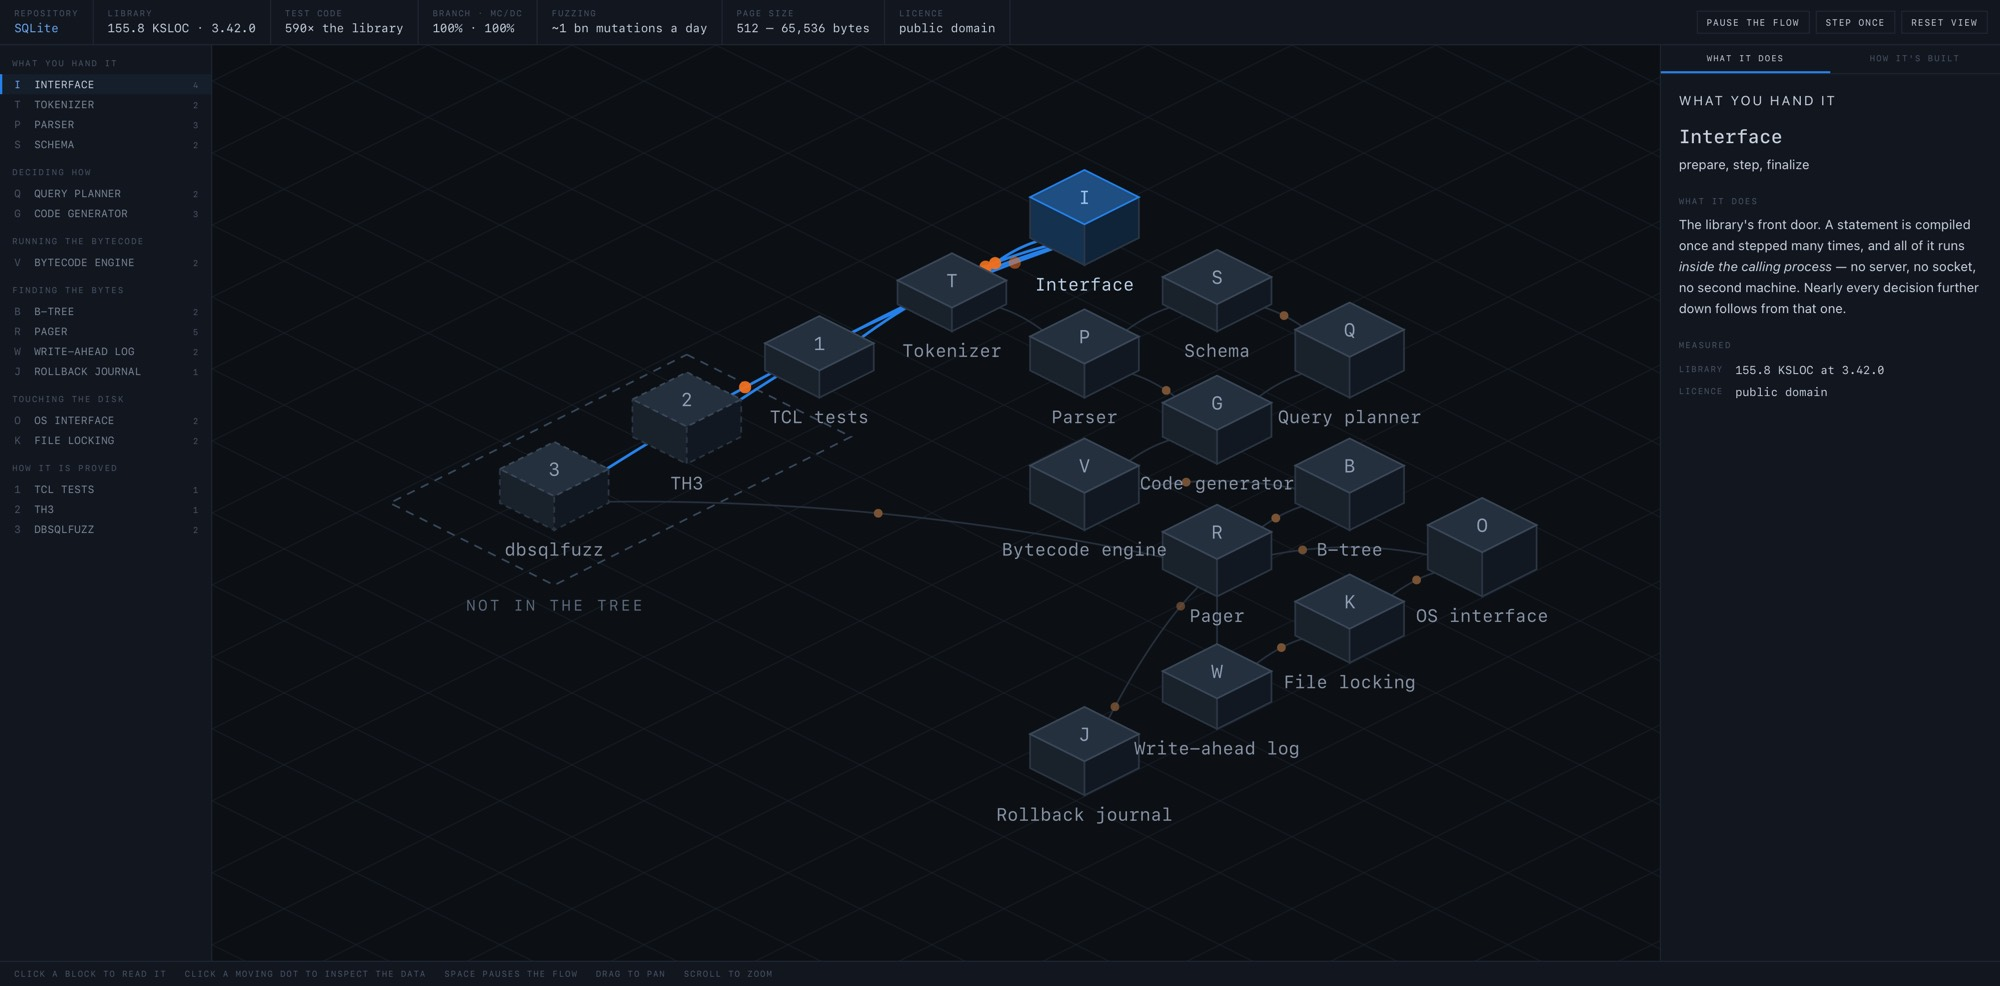
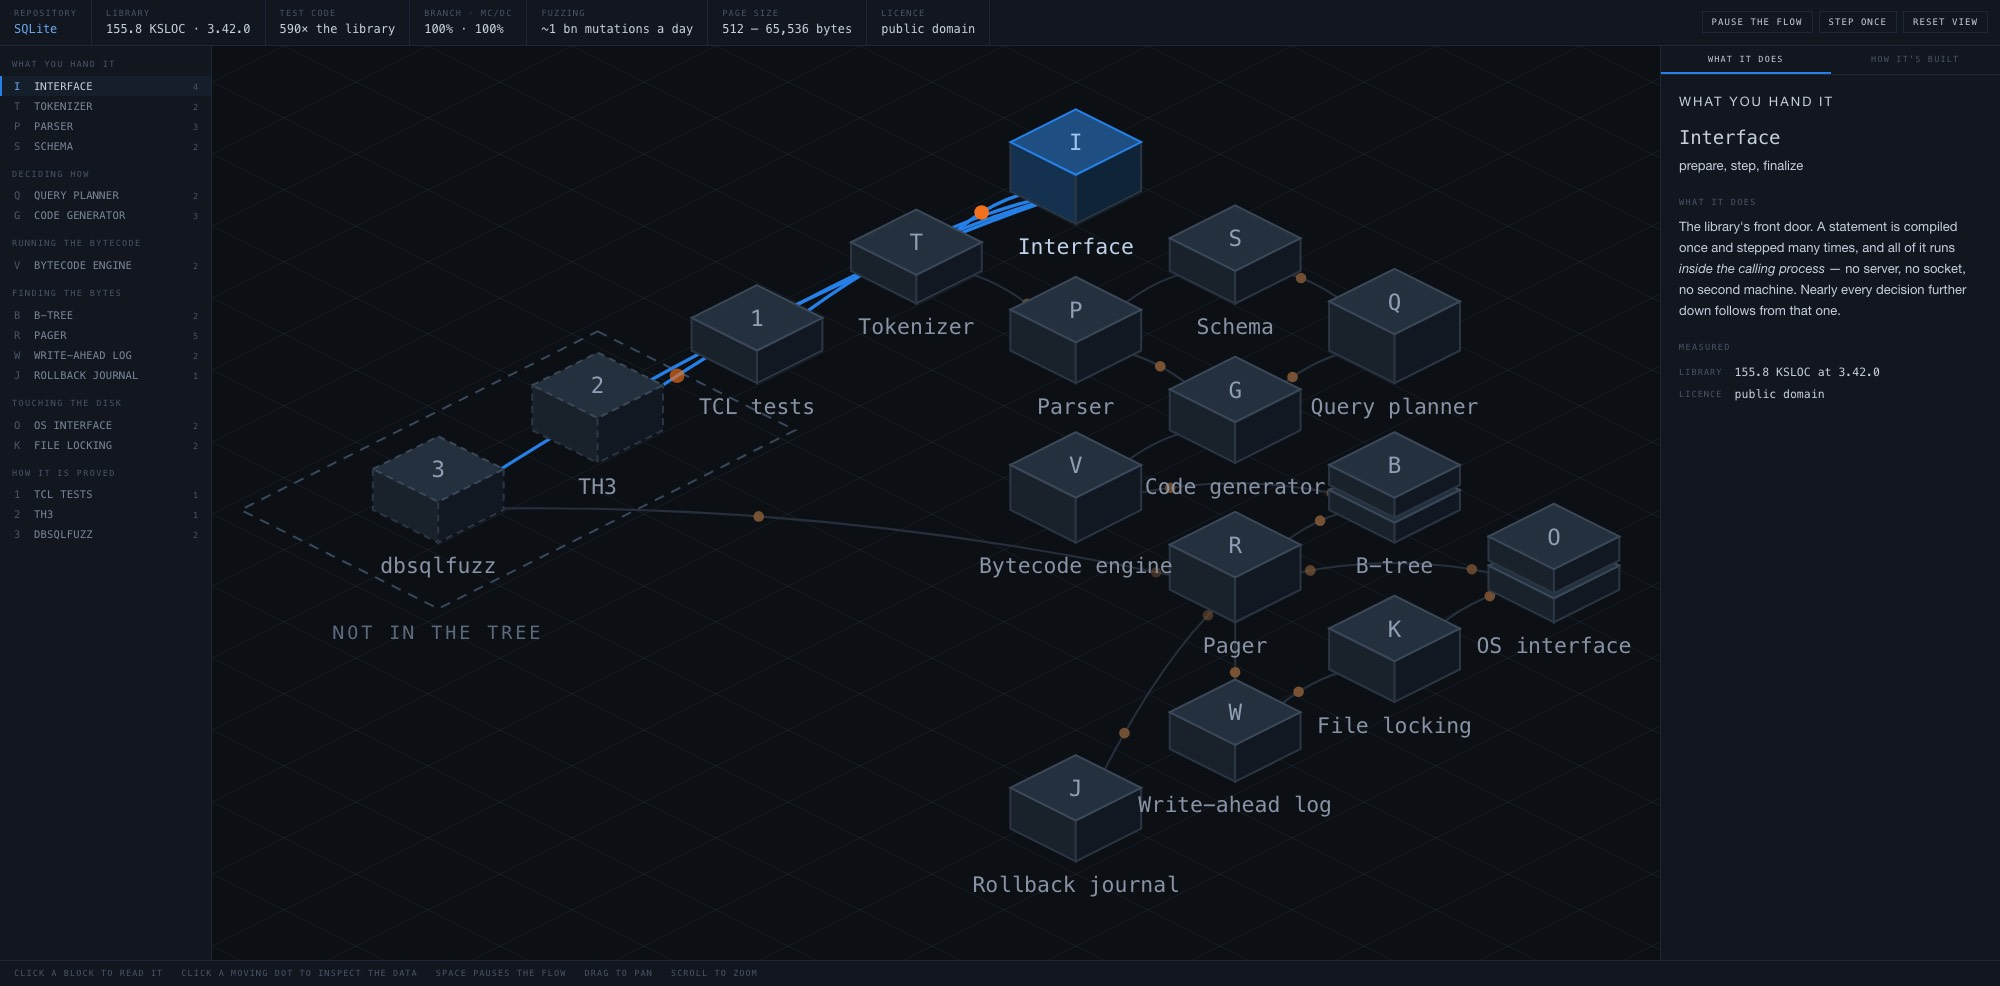
Fit to the labels that are there, not to a guessed margin
The default view was leaving about a tenth of its available scale unused, and
the cause was two constants standing in for a measurement. fit() reserved a
flat 140 across and 120 down for label overhang - numbers tuned by hand against
an earlier example, where labels ran roughly 60 past a block on each side - and
then capped the scale at 1.7. This example wanted 1.85 before its width bound
it, so it opened smaller than the space it had, exactly the fault the 1.15 cap
had caused before.

Both are gone. The bounds now include each label's real getBBox extent and the
top of each block, which stands h+H above its anchor and was never counted, so
what is left over is a genuine margin rather than a fudge factor. Padding drops
to 28 and the cap to a ceiling that only a very small graph will reach.

Two ways this can go wrong, both handled. Where layout has not happened
getBBox throws, and where an engine returns a zero-size box instead, taking it
at face value would drag every bound toward the origin and quietly zoom a map
out - a graph that does not contain the origin would be worst hit. Either case
falls back to the old constants, which were at least safe.

Also names what the stacked blocks are doubling, prompted by the obvious
question on seeing them: two of what? The two cases turned out to mean
different things. os_unix.c and os_win.c are two ports of one interface - and
notably not two VFS objects, since the unix file alone registers up to twelve
[…]

diff --git a/assets/template.html b/assets/template.html
@@ -269,8 +269,8 @@ const NODES = [
   {c:"B", id:"btree", name:"B-tree", grp:"Finding the bytes", gx:3, gy:1, h:22, stack:2,
    sub:"Tables and indexes, both",
    does:"Turns a table into pages. Tables and indexes are the same structure here — the first byte of a page header says which, and whether the page is interior or leaf. Four values cover the whole file.",
-   built:"<code>btree.c</code>, the largest single source file in the library at about 407 KB. Page type flags are 0x02 interior index, 0x05 interior table, 0x0a leaf index, 0x0d leaf table.",
-   facts:[["Page types","0x02 · 0x05 · 0x0a · 0x0d"],["Source","~407 KB, the biggest"]]},
+   built:"<code>btree.c</code>, the largest single source file in the library at about 407 KB — <em>one</em> implementation serving both forms, not two. Page type flags are 0x02 interior index, 0x05 interior table, 0x0a leaf index, 0x0d leaf table.",
+   facts:[["The two plates","table b-tree · index b-tree"],["Page types","0x02 · 0x05 · 0x0a · 0x0d"],["Source","~407 KB, the biggest"]]},
 
   {c:"R", id:"pager", name:"Pager", grp:"Finding the bytes", gx:3, gy:2, h:22,
    sub:"Where writes become atomic",
@@ -294,8 +294,8 @@ const NODES = [
   {c:"O", id:"vfs",   name:"OS interface", grp:"Touching the disk", gx:4, gy:1, h:26, stack:2,
    sub:"One interface, two builds",
    does:"All file access goes through a single struct of function pointers. That is why SQLite ports to anything with a filesystem, and why you can hand it storage of your own at runtime without touching the library.",
-   built:"<code>os_unix.c</code> and <code>os_win.c</code>. The unix one runs to about 8,600 lines, the great majority of it concerned with locking rather than with reading and writing.",
-   facts:[["Swappable","yes — sqlite3_vfs_register"],["os_unix.c","~8,600 lines"]]},
+   built:"<code>os_unix.c</code> and <code>os_win.c</code> — two ports, not two VFS objects. The unix file alone registers <mark>a dozen of those</mark>: <code>unix</code>, <code>unix-excl</code>, <code>unix-dotfile</code>, <code>unix-nfs</code>, <code>unix-proxy</code> and more, which are locking strategies rather than platforms. It runs to about 8,600 lines, the great majority of it about locking rather than reading and writing.",
+   facts:[["The two plates","os_unix.c · os_win.c"],["VFSes in the unix one","up to 12"],["Swappable","yes — sqlite3_vfs_register"]]},
 
   {c:"K", id:"lock",  name:"File locking", grp:"Touching the disk", gx:4, gy:2, h:20,
    sub:"Five states, one of them odd",
@@ -552,21 +552,48 @@ function fit() {
   // go in here too — otherwise a region on the edge of the graph is cut off by
   // the panel and looks like a line that stops for no reason.
   const pts = NODES.map(at).concat(regionPts);
+
+  // Blocks stand up out of their anchor, so the top of the tallest one is the
+  // real upper edge of the drawing, not the anchor row.
+  for (const n of NODES) {
+    const p = at(n);
+    pts.push({ x:p.x, y:p.y - n.h - H });
+  }
+
+  // Measure the labels rather than reserving a guessed margin for them. This
+  // used to be a flat 140 across and 120 down, tuned by hand against one
+  // example: labels overhang a block by roughly 60 a side, so 140 cleared the
+  // worst of them. But it is wrong in both directions — too tight for a map
+  // with long names, and on this one it wasted about a tenth of the available
+  // scale on space nothing occupied. getBBox gives the true extent, so the
+  // margin left over is a real margin instead of a fudge factor.
+  let measured = true;
+  try {
+    const texts = [...Object.values(nodeEls).map(e => e.label),
+                   ...regionEls.map(e => e.label)];
+    for (const t of texts) {
+      const b = t.getBBox();
+      // A zero-width box means the text has not been laid out. Some engines
+      // return that instead of throwing, and taking it at face value drags
+      // every bound toward the origin — which on a graph that does not
+      // contain the origin silently zooms the whole map out.
+      if (!b.width) { measured = false; break; }
+      pts.push({ x:b.x, y:b.y }, { x:b.x + b.width, y:b.y + b.height });
+    }
+  } catch (_) {
+    measured = false;   // no layout yet — fall back to the old constants
+  }
+
   const xs = pts.map(p => p.x), ys = pts.map(p => p.y);
-  // Padding enough to clear the labels, and a cap that lets a small graph
-  // fill the space it has. At 1.15 the default view sat marooned in the middle
-  // of a wide window with the type too small to read without scrolling in.
-  // Padding is asymmetric on purpose. The graph is about 2:1 — five stages
-  // across, five rows deep, projected — while a stage with an index and a
-  // panel either side is nearer 1.3:1. Width therefore binds, and generous
-  // horizontal padding scaled the whole thing down to 0.87 while leaving a
-  // third of the height empty. 90 clears the labels, which overhang a block by
-  // about 60 on each side, and the rest goes into zoom. Tighter than 140 and
-  // the outermost label is clipped by the panel — found in a render, since the
-  // stage hides its overflow and a cut label just looks like a short name.
-  const w = Math.max(...xs) - Math.min(...xs) + 140;
-  const h = Math.max(...ys) - Math.min(...ys) + 120;
-  view.k = Math.min(r.width / w, r.height / h, 1.7);
+  const pad = measured ? 28 : 140;
+  const w = Math.max(...xs) - Math.min(...xs) + pad;
+  const h = Math.max(...ys) - Math.min(...ys) + (measured ? 28 : 120);
+  // The cap stops a three-node graph filling the screen with enormous blocks.
+  // It was 1.15, which left the default view marooned in the middle of a wide
+  // window, then 1.7, which this 16-node example ran straight into — it could
+  // take 1.85 before the width bound it. 2.2 leaves the binding edge to the
+  // geometry in every case seen so far.
+  view.k = Math.min(r.width / w, r.height / h, 2.2);
   view.x = r.width / 2 - ((Math.min(...xs) + Math.max(...xs)) / 2) * view.k;
   view.y = r.height / 2 - ((Math.min(...ys) + Math.max(...ys)) / 2) * view.k;
   home = { ...view };

diff --git a/SKILL.md b/SKILL.md
@@ -110,6 +110,14 @@ kind, don't draw five plates and hope nobody counts — stack at the number of
 genuine variants, or leave it solid and put the figure in `facts`. The plate
 count is a claim like every other number in the diagram.
 
+**Name the variants in the panel, always.** A stack makes a reader ask "two
+of what?" and the canvas cannot answer — the block only carries its name. If
+the panel does not say, the plates are decoration that provokes a question and
+withholds the answer. Put the variants in `facts` as a pair, and be exact about
+what is doubled: two *implementations* of one interface is a different claim
+from one implementation serving two *forms*, and a reader who knows the codebase
+will notice which you meant.
+
 Stacking is also a reason to **merge nodes**. If you find yourself drawing three
 near-identical blocks side by side, they are usually one stacked block with the
 differences described in the panel — and merging buys back a node to spend on

diff --git a/README.md b/README.md
@@ -16,7 +16,9 @@ code as library code — and the orange dots carry values from its own
 documentation, `2 OpenWrite 0 2 0 3` and page `type 0x0d`, rather than type
 names. The dashed outline marks the two test harnesses that are **not** in the
 public tree, which is where the 100% branch coverage figure actually comes
-from.
+from, and the two blocks drawn as a pair of plates are each one thing built
+twice — an OS interface with a unix and a Windows implementation, a b-tree in
+its table and index forms.
 
 That is the whole point. Every one of those facts took digging, and none of
 them is visible in a file listing.
